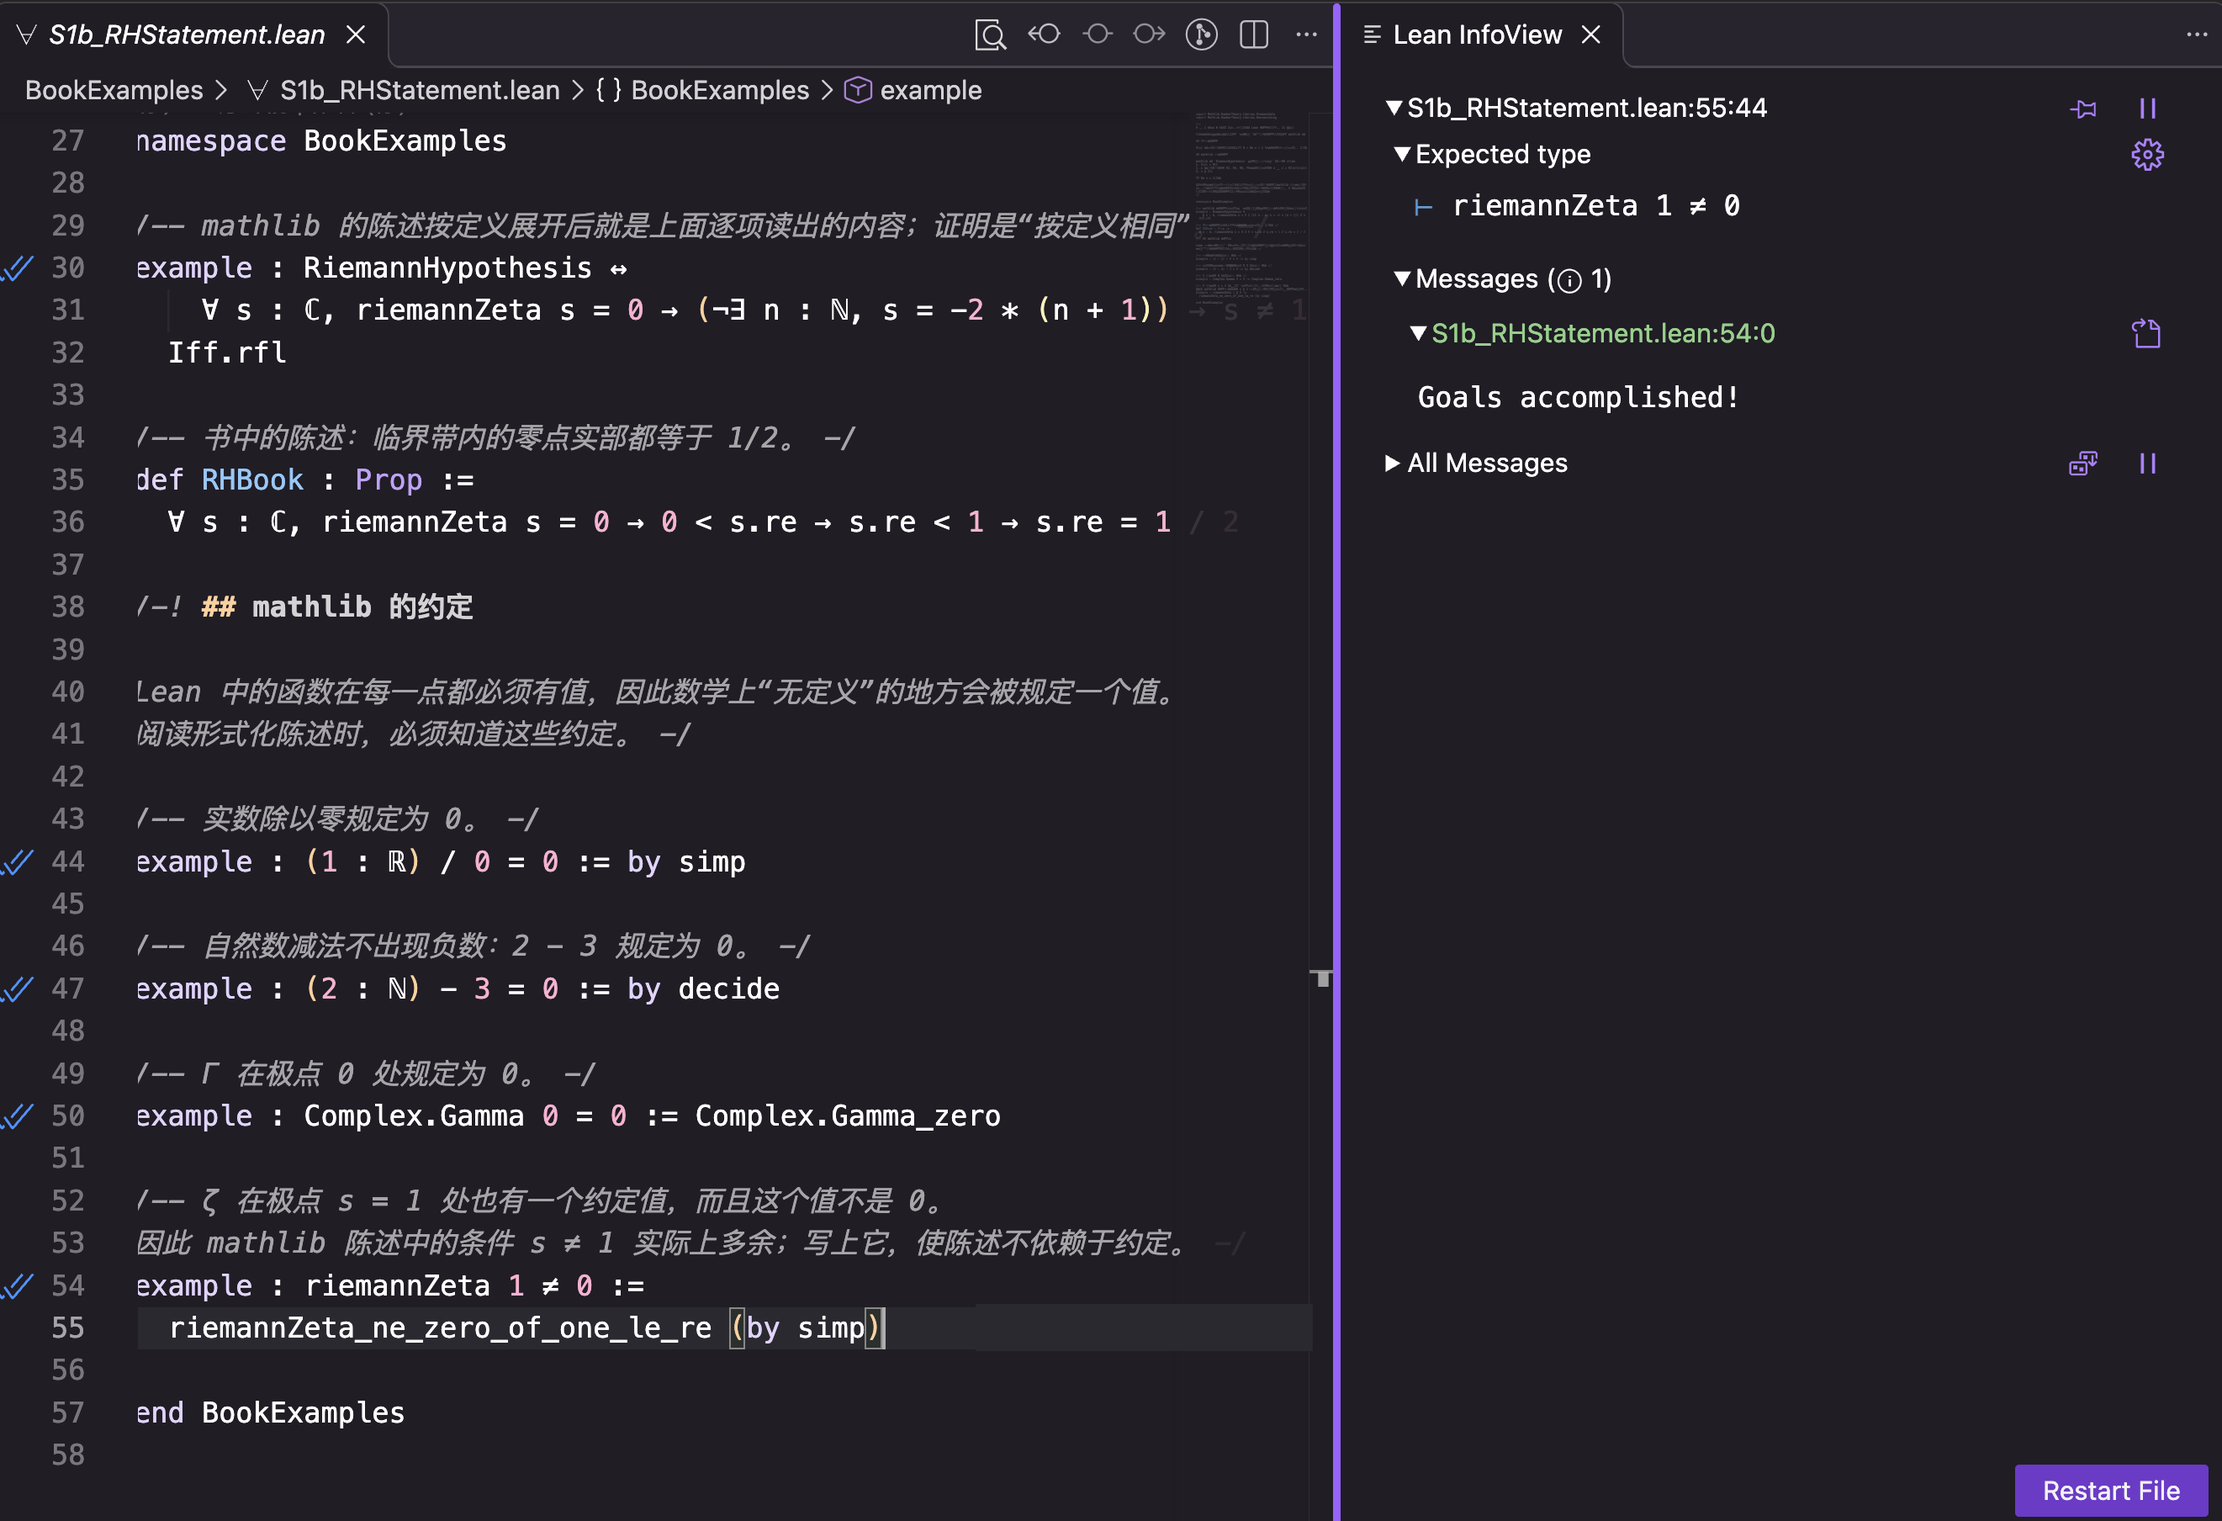
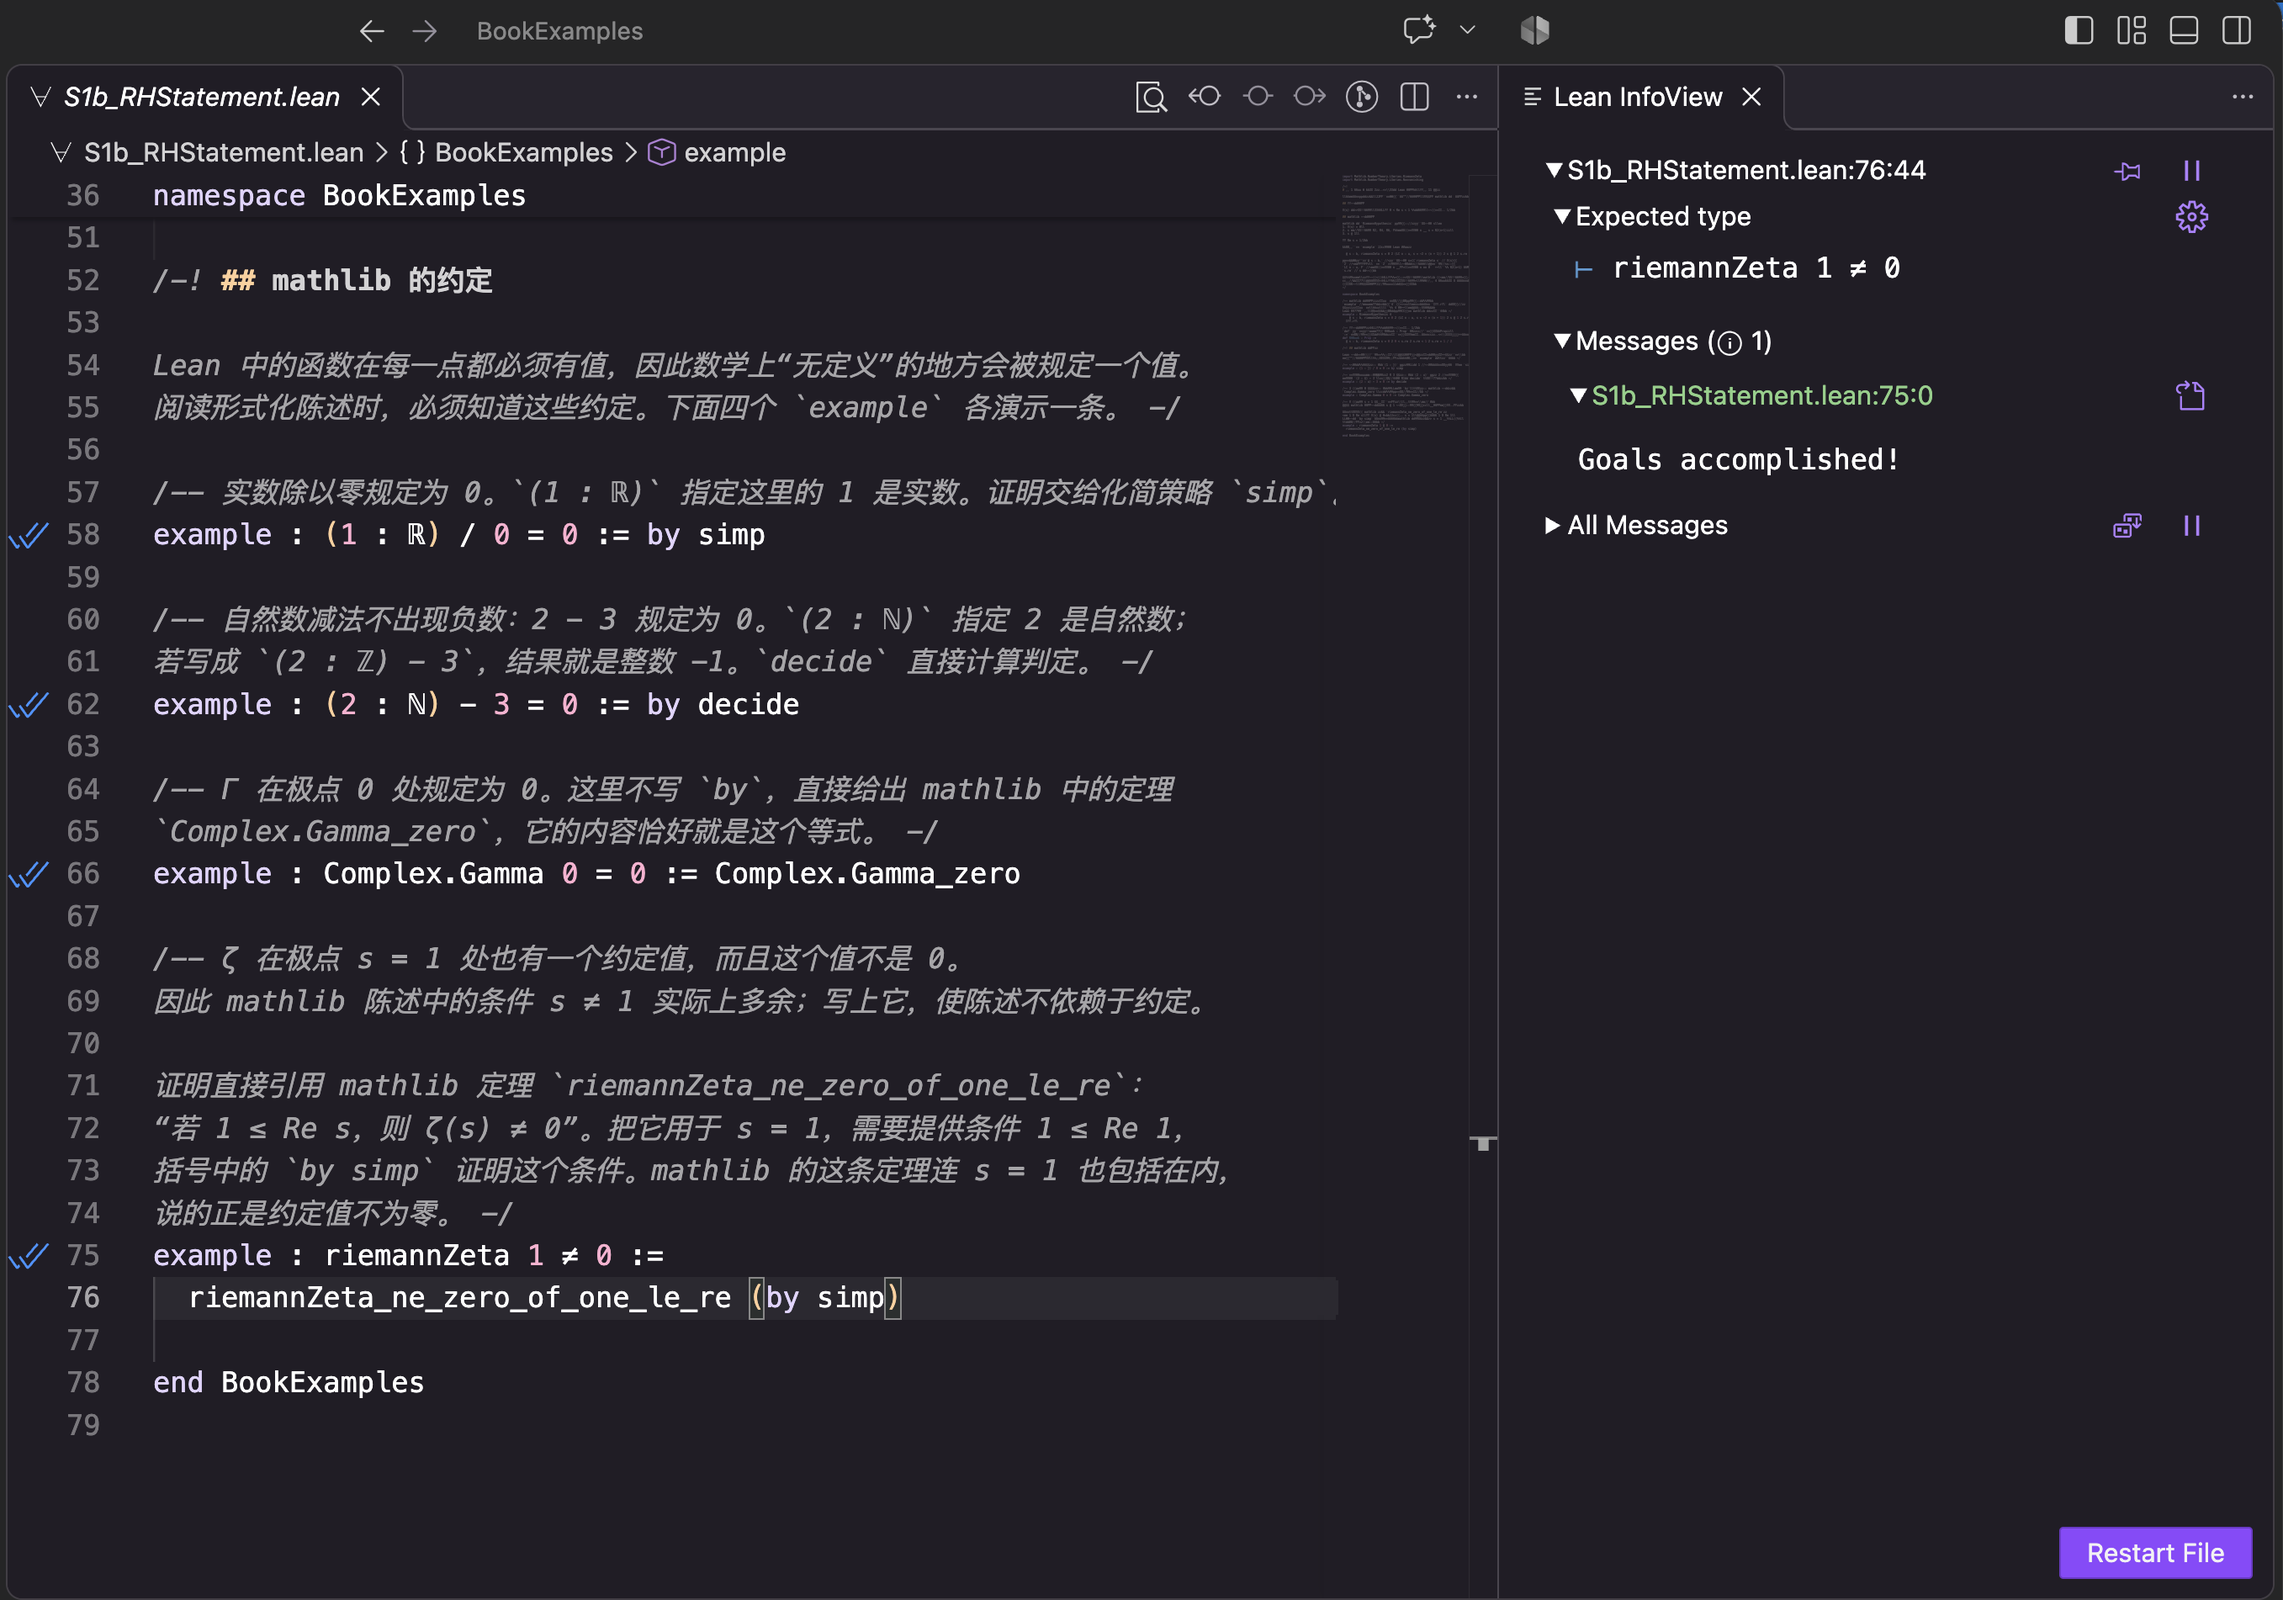
Lean 栏目：按当前代码重截 InfoView 截图，新增例题 3 的两张截图与说明

Changed region(s): [[0.0, 0.0, 1.0, 1.0], [0.9311, 0.3097, 0.9621, 0.3407], [0.9311, 0.1239, 0.9621, 0.1549]]

diff --git a/命题的形式化验证-Lean4/README.md b/命题的形式化验证-Lean4/README.md
@@ -193,6 +193,12 @@ Lean 的 VS Code 插件在编辑器右侧显示 InfoView：光标所在位置的
 
 ![例题 2](截图/S1b_RHStatement-1.png)
 
+**例题 3：归纳步中拆出最后一项。** 第一张光标在 `rw [sum_range_succ, sum_range_succ]` 之前。Tactic state 中 `case succ` 表示正在证明归纳步：已知条件列出 a、b、A、hA0、hA、n，以及归纳假设 `ih`（n 时的公式）；⊢ 后的目标是 n + 1 时的公式，两边各有一个 `∑ k ∈ range (n + 1)`。第二张是执行这一行之后：两个和都写成了 `∑ k ∈ range n` 加上 k = n 的一项，左边多出 `a n * b n`，右边多出 `A (n + 1) * (b (n + 1) - b n)`。此时目标与 ih 只差这两项，下一行 `linear_combination ih - b n * hA n` 用 ih 和部分和递推式 hA n 完成证明（手算见文件开头）。
+
+![例题 3 改写前](截图/S2a_AbelSummation-1.png)
+
+![例题 3 改写后](截图/S2a_AbelSummation-2.png)
+
 **例题 4：3–4–1 不等式的最后一步。** 光标在最后一行末尾的 `hSquare` 上。Tactic state 显示 `No goals`：这一行执行后已没有待证目标。Expected type 列出已知条件 θ 与 `hSquare : 0 ≤ (1 + cos θ)²`，以及光标处这一项应证明的命题 `0 ≤ (1 + cos θ)²`。`mul_nonneg` 说“两个非负数之积非负”，要用它证明 0 ≤ 2·(1 + cos θ)²，需要提供 0 ≤ 2（由 `by norm_num` 给出）和 0 ≤ (1 + cos θ)²，后者正是 `hSquare`。
 
 ![例题 4](截图/S2b_ThreeFourOne-1.png)
